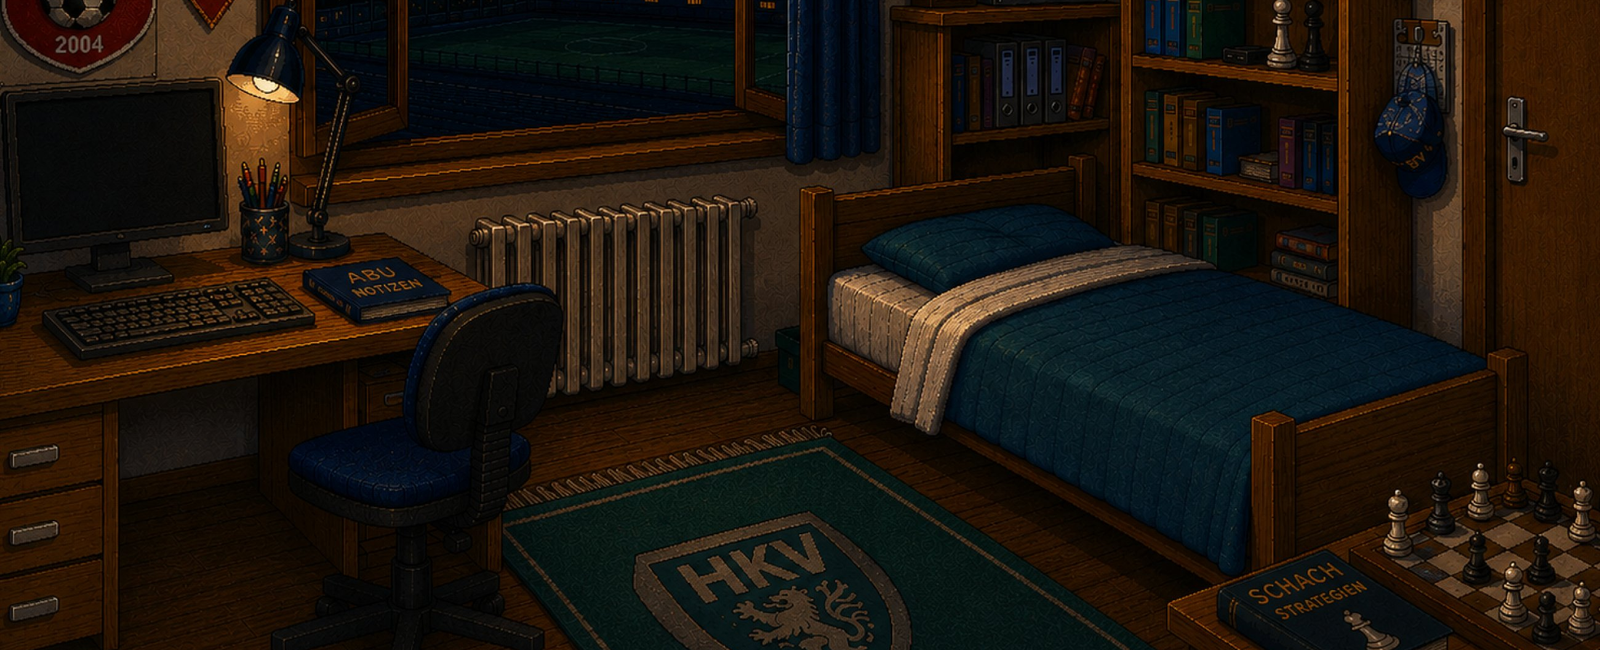
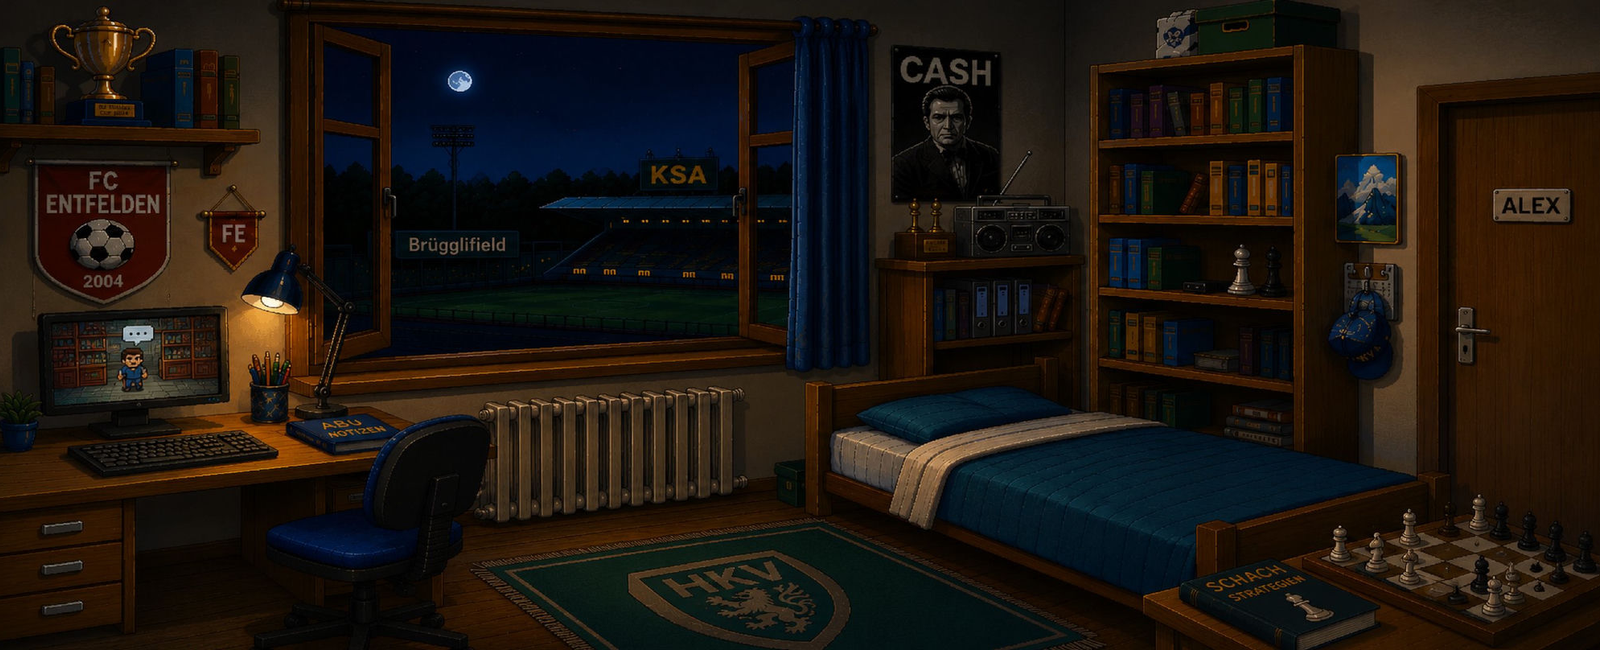
v27: Zimmer-Paar im Breitformat, Match-Abend + Nachtruhe

diff --git a/kaufvertrag_demo.html b/kaufvertrag_demo.html
@@ -475,35 +475,43 @@ laden:[
     a:{ anschauen:'Die Uhr tickt. Fristen laufen – das merken Sie sich für später.' } },
 ],
 zimmer:[
-  { id:'computer', name:'Computer', x:2,y:114,w:92,h:104,
-    a:{ anschauen:'Auf dem Bildschirm: <b>kvdigital.swiss</b>, Kapitel «Lernziele». Alex lernt sogar abends um zehn. Respekt – oder Prüfungspanik.',
-        benutze:'Nicht jetzt. Erst der Fall, dann die Lernziele. (Die Reihenfolge ist didaktisch umstritten.)' } },
-  { id:'fenster', name:'Fenster', x:130,y:6,w:172,h:158,
-    a:{ anschauen:'Draussen leuchtet das <b>Brügglifeld</b>, dahinter die KSA. Alex wohnt mit Aussicht auf Fussball und Bildung – die Prioritäten bleiben Verhandlungssache.',
-        oeffne:'Zu kalt. Und Ihr Problem fliegt nicht davon.' } },
-  { id:'cash', name:'Poster', x:350,y:0,w:57,h:70,
+  { id:'computer', name:'Computer', x:0,y:128,w:96,h:80,
+    a:{ anschauen:'Auf dem Bildschirm: <b>kvdigital.swiss</b> – der interaktive Sitzplan der Bundesversammlung. Alex lernt sogar abends um acht. Respekt – oder Prüfungspanik.',
+        benutze:'Nicht jetzt. Erst der Fall, dann das Parlament. (Die Reihenfolge ist didaktisch umstritten.)' } },
+  { id:'fenster', name:'Fenster', x:138,y:2,w:178,h:140,
+    a:{ anschauen:'Draussen leuchtet das <b>Brügglifeld</b> – Flutlicht, volle Ränge, das Spiel läuft! Und Alex sitzt am Pult. Die Prioritäten bleiben Verhandlungssache.',
+        oeffne:'Verlockend. Aber Ihr Problem fliegt nicht davon – im Gegensatz zum Ball.' } },
+  { id:'flutlicht', name:'Flutlicht', x:170,y:20,w:34,h:44,
+    a:{ anschauen:'Flutlicht überm Brügglifeld. Irgendwo dort unten verliert gerade jemand einen Zweikampf – und niemand rügt den Mangel.' } },
+  { id:'cash', name:'Poster', x:362,y:10,w:44,h:72,
     fund:{ verb:'anschauen', rq:1, text:'Ein Poster von <b>Johnny Cash</b>. Der Mann wusste alles über Schulden, Reue und zweite Chancen – der inoffizielle Schutzpatron des Obligationenrechts.' },
     a:{ anschauen:'Ein Poster in Schwarz-Weiss. Der Blick: streng, aber gerecht.' } },
-  { id:'radio', name:'Radiorekorder', x:388,y:64,w:56,h:36,
+  { id:'radio', name:'Radiorekorder', x:388,y:78,w:46,h:26,
     a:{ anschauen:'Ein Radiorekorder, Baujahr Occasion. Etwa von Meier &amp; Co.? Die Kassettenklappe klemmt jedenfalls stilecht.',
         benutze:'Play. In Ihrer Fantasie erklingt ein Vier-Stimmen-Tracker-Modul. Grossartig.' } },
-  { id:'gestell', name:'Büchergestell', x:448,y:0,w:94,h:210,
-    a:{ anschauen:'Ordner, Bücher, zwei Schachfiguren als Wache – und «Schach-Strategien» griffbereit. Wer vorausdenkt, gewinnt. Auch im Vertragsrecht.',
+  { id:'buecher', name:'Büchergestell', x:440,y:16,w:96,h:220,
+    a:{ anschauen:'Ordner, Bücher, zwei Schachfiguren als Wache. Wer Ordnung hält, findet sogar das OR auf Anhieb.',
         nimm:'Die Bücher gehören Ihnen schon. Eigentum verpflichtet – zum Lesen.' } },
-  { id:'tuer', name:'Zimmertür', x:584,y:0,w:56,h:260,
+  { id:'tuer', name:'Zimmertür', x:582,y:20,w:58,h:240,
     a:{ anschauen:'«ALEX» steht am Türschild. Ihr Reich – hier werden Rechtsfälle gelöst und Matratzen getestet.',
         oeffne:'Sie bleiben. Der Fall liegt hier drin, nicht draussen.' } },
-  { id:'bett', name:'Bett', x:320,y:156,w:270,h:104,
-    a:{ anschauen:'Auf dem Bett liegt das Leibchen des <b>BTV Aarau</b>, frisch gefaltet. Training ist morgen – zuerst das Recht.',
+  { id:'bett', name:'Bett', x:320,y:144,w:192,h:116,
+    a:{ anschauen:'Frisch gemacht und einladend. Training ist morgen – zuerst das Recht.',
         benutze:'Jetzt schlafen? Der Fall ruft!' } },
-  { id:'abubuch', name:'ABU-Notizen', x:112,y:194,w:57,h:35,
+  { id:'abubuch', name:'ABU-Notizen', x:124,y:156,w:44,h:24,
     a:{ anschauen:'«ABU-Notizen», prall gefüllt. Irgendwo darin: das Kapitel Kaufvertrag, markiert in drei Leuchtfarben.',
         benutze:'Sie blättern kurz. «Einigung über Sache und Preis …» – sitzt.' } },
-  { id:'wimpel', name:'Vereinswappen', x:0,y:36,w:100,h:84,
+  { id:'wimpel', name:'Vereinswappen', x:6,y:60,w:108,h:58,
     a:{ anschauen:'Das Wappen des <b>FC Entfelden</b>, dazu ein Wimpel. Loyalität kennt keine Ligagrenzen.' } },
-  { id:'heizung', name:'Radiator', x:188,y:178,w:116,h:68,
+  { id:'heizung', name:'Radiator', x:210,y:160,w:86,h:62,
     a:{ anschauen:'Ein Radiator mit Charakter. Er knackt nachts – aber anders als beim E-Bike ist das hier kein Mangel, sondern Ambiance.',
         benutze:'Sie wärmen kurz die Hände. Gemütlich. Löst aber keinen Verzug.' } },
+  { id:'teppich', name:'Teppich', x:200,y:214,w:240,h:46,
+    a:{ anschauen:'Der <b>HKV</b>-Teppich mit Löwenwappen. Offiziell nicht im Schulshop erhältlich – ein Sammlerstück.',
+        nimm:'Der bleibt liegen. Besitz ist nicht Eigentum – aber hier stimmt zufällig beides.' } },
+  { id:'gestell', name:'Schachbrett', x:548,y:206,w:92,h:54,
+    a:{ anschauen:'Ein angefangenes Schachproblem, daneben «Schach-Strategien». <b>Matt in zwei</b> – wer vorausdenkt, gewinnt. Auch im Vertragsrecht.',
+        nimm:'Das Problem wird gelöst, nicht weggeräumt.' } },
 ],
 weiche:[
   { id:'tuerL', name:'Zimmer 1', x:122,y:18,w:80,h:184,
@@ -841,7 +849,7 @@ ende: pxSzene('#000010', (R,D)=>{
    Liegen im Repo PNGs mit diesen Namen, werden sie automatisch
    statt der Pixel-Programme geladen. Fehlen sie: Pixel-Fallback.
    ===================================================== */
-const BILD_VERSION = '26';
+const BILD_VERSION = '27';
 function vurl(u){ return u + '?v=' + BILD_VERSION; }
 const SZENEN_BILDER = {
   front:'kaufvertrag_front.png',  laden:'kaufvertrag_laden.png',
@@ -850,34 +858,46 @@ const SZENEN_BILDER = {
   weiche:'kaufvertrag_weiche.png',
   ende:'kaufvertrag_ende.png',
 };
-/* Spaetabend-Variante: eigenes Band (tiefer), eigene Hotspots */
+/* Spaetabend-Variante: Breitbild mit Mond UND Schachbrett, eigene Hotspots */
 SZENEN.zimmer2 = SZENEN.zimmer;
 HOTSPOTS.zimmer2 = [
-  { id:'computer', name:'Computer', x:2,y:14,w:92,h:104,
-    a:{ anschauen:'Der Bildschirm ist dunkel. Sogar kvdigital.swiss schläft irgendwann – die Hausaufgaben sind erledigt.',
-        benutze:'Nicht mehr heute. Morgen ist auch noch ein Rechtstag.' } },
-  { id:'fenster', name:'Fenster', x:130,y:0,w:172,h:64,
-    a:{ anschauen:'Draussen ist das Flutlicht aus – <b>Spielende im Brügglifeld</b>. Nur die Nacht und Ihr Fall sind noch wach.',
+  { id:'computer', name:'Computer', x:0,y:128,w:96,h:80,
+    fund:{ verb:'anschauen', rq:1, text:'Auf dem Bildschirm läuft ein Pixel-Adventure: Eine kleine Figur steht in einem Occasionsladen und verhandelt … Moment. Das kommt Ihnen <b>sehr</b> bekannt vor.' },
+    a:{ anschauen:'Der Bildschirm flimmert. Hausaufgaben fertig – jetzt wird gespielt.',
+        benutze:'Alex spielt schon. Und Sie spielen Alex. Weiter im Text, bevor das philosophisch wird.' } },
+  { id:'fenster', name:'Fenster', x:138,y:2,w:178,h:140,
+    a:{ anschauen:'Das Flutlicht ist aus, der Mond übernimmt – <b>Spielende im Brügglifeld</b>. Nur die Nacht und Ihr Fall sind noch wach.',
         oeffne:'Zu spät, zu kalt. Und Ihr Problem bleibt sowieso hier drin.' } },
-  { id:'buecher', name:'Büchergestell', x:448,y:0,w:94,h:110,
-    a:{ anschauen:'Bücher und Ordner im Halbdunkel. Die Schulwoche ist abgehakt – fast.',
+  { id:'mond', name:'Mond', x:184,y:16,w:28,h:26,
+    a:{ anschauen:'Vollmond über dem Brügglifeld. Der einzige Schiedsrichter, der nie abpfeift.',
+        benutze:'Den Mond kann man nicht benutzen. Nicht einmal mit RQ 100.' } },
+  { id:'cash', name:'Poster', x:362,y:10,w:44,h:72,
+    fund:{ verb:'anschauen', rq:1, text:'Ein Poster von <b>Johnny Cash</b>. Der Mann wusste alles über Schulden, Reue und zweite Chancen – der inoffizielle Schutzpatron des Obligationenrechts.' },
+    a:{ anschauen:'Ein Poster in Schwarz-Weiss. Der Blick: streng, aber gerecht. Nachts noch strenger.' } },
+  { id:'radio', name:'Radiorekorder', x:388,y:78,w:46,h:26,
+    a:{ anschauen:'Ein Radiorekorder, Baujahr Occasion. Etwa von Meier &amp; Co.? Die Kassettenklappe klemmt jedenfalls stilecht.',
+        benutze:'Nicht mehr heute – das Haus schläft. Kopfkino tut es auch.' } },
+  { id:'buecher', name:'Büchergestell', x:440,y:16,w:96,h:220,
+    a:{ anschauen:'Ordner, Bücher, zwei Schachfiguren als Wache. Die Schulwoche ist abgehakt – fast.',
         nimm:'Die Bücher gehören Ihnen schon. Eigentum verpflichtet – zum Lesen.' } },
-  { id:'tuer', name:'Zimmertür', x:584,y:0,w:56,h:160,
-    a:{ anschauen:'Ihre Zimmertür. Dahinter schläft das Haus – hier drin wacht das Obligationenrecht.',
+  { id:'tuer', name:'Zimmertür', x:582,y:20,w:58,h:240,
+    a:{ anschauen:'«ALEX» steht am Türschild. Ihr Reich – hier werden Rechtsfälle gelöst und Matratzen getestet.',
         oeffne:'Sie bleiben. Der Fall liegt hier drin, nicht draussen.' } },
-  { id:'bett', name:'Bett', x:320,y:56,w:270,h:104,
+  { id:'bett', name:'Bett', x:320,y:144,w:192,h:116,
     a:{ anschauen:'Das Bett ist gemacht und ruft leise. Zuerst braucht der Fall eine Entscheidung.',
         benutze:'Gleich. Wer jetzt schläft, wacht mit demselben Problem wieder auf.' } },
-  { id:'abubuch', name:'ABU-Notizen', x:112,y:94,w:57,h:35,
+  { id:'abubuch', name:'ABU-Notizen', x:124,y:156,w:44,h:24,
     a:{ anschauen:'«ABU-Notizen», prall gefüllt. Irgendwo darin: das Kapitel Kaufvertrag, markiert in drei Leuchtfarben.',
         benutze:'Sie blättern kurz. «Einigung über Sache und Preis …» – sitzt.' } },
-  { id:'heizung', name:'Radiator', x:188,y:78,w:116,h:68,
+  { id:'wimpel', name:'Vereinswappen', x:6,y:60,w:108,h:58,
+    a:{ anschauen:'Das Wappen des <b>FC Entfelden</b>, dazu ein Wimpel. Loyalität kennt keine Ligagrenzen.' } },
+  { id:'heizung', name:'Radiator', x:210,y:160,w:86,h:62,
     a:{ anschauen:'Ein Radiator mit Charakter. Er knackt nachts – aber anders als beim E-Bike ist das hier kein Mangel, sondern Ambiance.',
         benutze:'Sie wärmen kurz die Hände. Gemütlich. Löst aber keinen Verzug.' } },
-  { id:'teppich', name:'Teppich', x:167,y:182,w:298,h:78,
+  { id:'teppich', name:'Teppich', x:200,y:214,w:240,h:46,
     a:{ anschauen:'Der <b>HKV</b>-Teppich mit Löwenwappen. Offiziell nicht im Schulshop erhältlich – ein Sammlerstück.',
         nimm:'Der bleibt liegen. Besitz ist nicht Eigentum – aber hier stimmt zufällig beides.' } },
-  { id:'gestell', name:'Schachbrett', x:540,y:180,w:100,h:80,
+  { id:'gestell', name:'Schachbrett', x:548,y:206,w:92,h:54,
     a:{ anschauen:'Ein angefangenes Schachproblem, daneben «Schach-Strategien». <b>Matt in zwei</b> – wer vorausdenkt, gewinnt. Auch im Vertragsrecht.',
         nimm:'Das Problem wird gelöst, nicht weggeräumt.' } },
 ];

diff --git a/kaufvertrag_fd642d69.html b/kaufvertrag_fd642d69.html
@@ -476,35 +476,43 @@ laden:[
     a:{ anschauen:'Die Uhr tickt. Fristen laufen – das merken Sie sich für später.' } },
 ],
 zimmer:[
-  { id:'computer', name:'Computer', x:2,y:114,w:92,h:104,
-    a:{ anschauen:'Auf dem Bildschirm: <b>kvdigital.swiss</b>, Kapitel «Lernziele». Alex lernt sogar abends um zehn. Respekt – oder Prüfungspanik.',
-        benutze:'Nicht jetzt. Erst der Fall, dann die Lernziele. (Die Reihenfolge ist didaktisch umstritten.)' } },
-  { id:'fenster', name:'Fenster', x:130,y:6,w:172,h:158,
-    a:{ anschauen:'Draussen leuchtet das <b>Brügglifeld</b>, dahinter die KSA. Alex wohnt mit Aussicht auf Fussball und Bildung – die Prioritäten bleiben Verhandlungssache.',
-        oeffne:'Zu kalt. Und Ihr Problem fliegt nicht davon.' } },
-  { id:'cash', name:'Poster', x:350,y:0,w:57,h:70,
+  { id:'computer', name:'Computer', x:0,y:128,w:96,h:80,
+    a:{ anschauen:'Auf dem Bildschirm: <b>kvdigital.swiss</b> – der interaktive Sitzplan der Bundesversammlung. Alex lernt sogar abends um acht. Respekt – oder Prüfungspanik.',
+        benutze:'Nicht jetzt. Erst der Fall, dann das Parlament. (Die Reihenfolge ist didaktisch umstritten.)' } },
+  { id:'fenster', name:'Fenster', x:138,y:2,w:178,h:140,
+    a:{ anschauen:'Draussen leuchtet das <b>Brügglifeld</b> – Flutlicht, volle Ränge, das Spiel läuft! Und Alex sitzt am Pult. Die Prioritäten bleiben Verhandlungssache.',
+        oeffne:'Verlockend. Aber Ihr Problem fliegt nicht davon – im Gegensatz zum Ball.' } },
+  { id:'flutlicht', name:'Flutlicht', x:170,y:20,w:34,h:44,
+    a:{ anschauen:'Flutlicht überm Brügglifeld. Irgendwo dort unten verliert gerade jemand einen Zweikampf – und niemand rügt den Mangel.' } },
+  { id:'cash', name:'Poster', x:362,y:10,w:44,h:72,
     fund:{ verb:'anschauen', rq:1, text:'Ein Poster von <b>Johnny Cash</b>. Der Mann wusste alles über Schulden, Reue und zweite Chancen – der inoffizielle Schutzpatron des Obligationenrechts.' },
     a:{ anschauen:'Ein Poster in Schwarz-Weiss. Der Blick: streng, aber gerecht.' } },
-  { id:'radio', name:'Radiorekorder', x:388,y:64,w:56,h:36,
+  { id:'radio', name:'Radiorekorder', x:388,y:78,w:46,h:26,
     a:{ anschauen:'Ein Radiorekorder, Baujahr Occasion. Etwa von Meier &amp; Co.? Die Kassettenklappe klemmt jedenfalls stilecht.',
         benutze:'Play. In Ihrer Fantasie erklingt ein Vier-Stimmen-Tracker-Modul. Grossartig.' } },
-  { id:'gestell', name:'Büchergestell', x:448,y:0,w:94,h:210,
-    a:{ anschauen:'Ordner, Bücher, zwei Schachfiguren als Wache – und «Schach-Strategien» griffbereit. Wer vorausdenkt, gewinnt. Auch im Vertragsrecht.',
+  { id:'buecher', name:'Büchergestell', x:440,y:16,w:96,h:220,
+    a:{ anschauen:'Ordner, Bücher, zwei Schachfiguren als Wache. Wer Ordnung hält, findet sogar das OR auf Anhieb.',
         nimm:'Die Bücher gehören Ihnen schon. Eigentum verpflichtet – zum Lesen.' } },
-  { id:'tuer', name:'Zimmertür', x:584,y:0,w:56,h:260,
+  { id:'tuer', name:'Zimmertür', x:582,y:20,w:58,h:240,
     a:{ anschauen:'«ALEX» steht am Türschild. Ihr Reich – hier werden Rechtsfälle gelöst und Matratzen getestet.',
         oeffne:'Sie bleiben. Der Fall liegt hier drin, nicht draussen.' } },
-  { id:'bett', name:'Bett', x:320,y:156,w:270,h:104,
-    a:{ anschauen:'Auf dem Bett liegt das Leibchen des <b>BTV Aarau</b>, frisch gefaltet. Training ist morgen – zuerst das Recht.',
+  { id:'bett', name:'Bett', x:320,y:144,w:192,h:116,
+    a:{ anschauen:'Frisch gemacht und einladend. Training ist morgen – zuerst das Recht.',
         benutze:'Jetzt schlafen? Der Fall ruft!' } },
-  { id:'abubuch', name:'ABU-Notizen', x:112,y:194,w:57,h:35,
+  { id:'abubuch', name:'ABU-Notizen', x:124,y:156,w:44,h:24,
     a:{ anschauen:'«ABU-Notizen», prall gefüllt. Irgendwo darin: das Kapitel Kaufvertrag, markiert in drei Leuchtfarben.',
         benutze:'Sie blättern kurz. «Einigung über Sache und Preis …» – sitzt.' } },
-  { id:'wimpel', name:'Vereinswappen', x:0,y:36,w:100,h:84,
+  { id:'wimpel', name:'Vereinswappen', x:6,y:60,w:108,h:58,
     a:{ anschauen:'Das Wappen des <b>FC Entfelden</b>, dazu ein Wimpel. Loyalität kennt keine Ligagrenzen.' } },
-  { id:'heizung', name:'Radiator', x:188,y:178,w:116,h:68,
+  { id:'heizung', name:'Radiator', x:210,y:160,w:86,h:62,
     a:{ anschauen:'Ein Radiator mit Charakter. Er knackt nachts – aber anders als beim E-Bike ist das hier kein Mangel, sondern Ambiance.',
         benutze:'Sie wärmen kurz die Hände. Gemütlich. Löst aber keinen Verzug.' } },
+  { id:'teppich', name:'Teppich', x:200,y:214,w:240,h:46,
+    a:{ anschauen:'Der <b>HKV</b>-Teppich mit Löwenwappen. Offiziell nicht im Schulshop erhältlich – ein Sammlerstück.',
+        nimm:'Der bleibt liegen. Besitz ist nicht Eigentum – aber hier stimmt zufällig beides.' } },
+  { id:'gestell', name:'Schachbrett', x:548,y:206,w:92,h:54,
+    a:{ anschauen:'Ein angefangenes Schachproblem, daneben «Schach-Strategien». <b>Matt in zwei</b> – wer vorausdenkt, gewinnt. Auch im Vertragsrecht.',
+        nimm:'Das Problem wird gelöst, nicht weggeräumt.' } },
 ],
 weiche:[
   { id:'tuerL', name:'Zimmer 1', x:122,y:18,w:80,h:184,
@@ -842,7 +850,7 @@ ende: pxSzene('#000010', (R,D)=>{
    Liegen im Repo PNGs mit diesen Namen, werden sie automatisch
    statt der Pixel-Programme geladen. Fehlen sie: Pixel-Fallback.
    ===================================================== */
-const BILD_VERSION = '26';
+const BILD_VERSION = '27';
 function vurl(u){ return u + '?v=' + BILD_VERSION; }
 const SZENEN_BILDER = {
   front:'kaufvertrag_front.png',  laden:'kaufvertrag_laden.png',
@@ -851,34 +859,46 @@ const SZENEN_BILDER = {
   weiche:'kaufvertrag_weiche.png',
   ende:'kaufvertrag_ende.png',
 };
-/* Spaetabend-Variante: eigenes Band (tiefer), eigene Hotspots */
+/* Spaetabend-Variante: Breitbild mit Mond UND Schachbrett, eigene Hotspots */
 SZENEN.zimmer2 = SZENEN.zimmer;
 HOTSPOTS.zimmer2 = [
-  { id:'computer', name:'Computer', x:2,y:14,w:92,h:104,
-    a:{ anschauen:'Der Bildschirm ist dunkel. Sogar kvdigital.swiss schläft irgendwann – die Hausaufgaben sind erledigt.',
-        benutze:'Nicht mehr heute. Morgen ist auch noch ein Rechtstag.' } },
-  { id:'fenster', name:'Fenster', x:130,y:0,w:172,h:64,
-    a:{ anschauen:'Draussen ist das Flutlicht aus – <b>Spielende im Brügglifeld</b>. Nur die Nacht und Ihr Fall sind noch wach.',
+  { id:'computer', name:'Computer', x:0,y:128,w:96,h:80,
+    fund:{ verb:'anschauen', rq:1, text:'Auf dem Bildschirm läuft ein Pixel-Adventure: Eine kleine Figur steht in einem Occasionsladen und verhandelt … Moment. Das kommt Ihnen <b>sehr</b> bekannt vor.' },
+    a:{ anschauen:'Der Bildschirm flimmert. Hausaufgaben fertig – jetzt wird gespielt.',
+        benutze:'Alex spielt schon. Und Sie spielen Alex. Weiter im Text, bevor das philosophisch wird.' } },
+  { id:'fenster', name:'Fenster', x:138,y:2,w:178,h:140,
+    a:{ anschauen:'Das Flutlicht ist aus, der Mond übernimmt – <b>Spielende im Brügglifeld</b>. Nur die Nacht und Ihr Fall sind noch wach.',
         oeffne:'Zu spät, zu kalt. Und Ihr Problem bleibt sowieso hier drin.' } },
-  { id:'buecher', name:'Büchergestell', x:448,y:0,w:94,h:110,
-    a:{ anschauen:'Bücher und Ordner im Halbdunkel. Die Schulwoche ist abgehakt – fast.',
+  { id:'mond', name:'Mond', x:184,y:16,w:28,h:26,
+    a:{ anschauen:'Vollmond über dem Brügglifeld. Der einzige Schiedsrichter, der nie abpfeift.',
+        benutze:'Den Mond kann man nicht benutzen. Nicht einmal mit RQ 100.' } },
+  { id:'cash', name:'Poster', x:362,y:10,w:44,h:72,
+    fund:{ verb:'anschauen', rq:1, text:'Ein Poster von <b>Johnny Cash</b>. Der Mann wusste alles über Schulden, Reue und zweite Chancen – der inoffizielle Schutzpatron des Obligationenrechts.' },
+    a:{ anschauen:'Ein Poster in Schwarz-Weiss. Der Blick: streng, aber gerecht. Nachts noch strenger.' } },
+  { id:'radio', name:'Radiorekorder', x:388,y:78,w:46,h:26,
+    a:{ anschauen:'Ein Radiorekorder, Baujahr Occasion. Etwa von Meier &amp; Co.? Die Kassettenklappe klemmt jedenfalls stilecht.',
+        benutze:'Nicht mehr heute – das Haus schläft. Kopfkino tut es auch.' } },
+  { id:'buecher', name:'Büchergestell', x:440,y:16,w:96,h:220,
+    a:{ anschauen:'Ordner, Bücher, zwei Schachfiguren als Wache. Die Schulwoche ist abgehakt – fast.',
         nimm:'Die Bücher gehören Ihnen schon. Eigentum verpflichtet – zum Lesen.' } },
-  { id:'tuer', name:'Zimmertür', x:584,y:0,w:56,h:160,
-    a:{ anschauen:'Ihre Zimmertür. Dahinter schläft das Haus – hier drin wacht das Obligationenrecht.',
+  { id:'tuer', name:'Zimmertür', x:582,y:20,w:58,h:240,
+    a:{ anschauen:'«ALEX» steht am Türschild. Ihr Reich – hier werden Rechtsfälle gelöst und Matratzen getestet.',
         oeffne:'Sie bleiben. Der Fall liegt hier drin, nicht draussen.' } },
-  { id:'bett', name:'Bett', x:320,y:56,w:270,h:104,
+  { id:'bett', name:'Bett', x:320,y:144,w:192,h:116,
     a:{ anschauen:'Das Bett ist gemacht und ruft leise. Zuerst braucht der Fall eine Entscheidung.',
         benutze:'Gleich. Wer jetzt schläft, wacht mit demselben Problem wieder auf.' } },
-  { id:'abubuch', name:'ABU-Notizen', x:112,y:94,w:57,h:35,
+  { id:'abubuch', name:'ABU-Notizen', x:124,y:156,w:44,h:24,
     a:{ anschauen:'«ABU-Notizen», prall gefüllt. Irgendwo darin: das Kapitel Kaufvertrag, markiert in drei Leuchtfarben.',
         benutze:'Sie blättern kurz. «Einigung über Sache und Preis …» – sitzt.' } },
-  { id:'heizung', name:'Radiator', x:188,y:78,w:116,h:68,
+  { id:'wimpel', name:'Vereinswappen', x:6,y:60,w:108,h:58,
+    a:{ anschauen:'Das Wappen des <b>FC Entfelden</b>, dazu ein Wimpel. Loyalität kennt keine Ligagrenzen.' } },
+  { id:'heizung', name:'Radiator', x:210,y:160,w:86,h:62,
     a:{ anschauen:'Ein Radiator mit Charakter. Er knackt nachts – aber anders als beim E-Bike ist das hier kein Mangel, sondern Ambiance.',
         benutze:'Sie wärmen kurz die Hände. Gemütlich. Löst aber keinen Verzug.' } },
-  { id:'teppich', name:'Teppich', x:167,y:182,w:298,h:78,
+  { id:'teppich', name:'Teppich', x:200,y:214,w:240,h:46,
     a:{ anschauen:'Der <b>HKV</b>-Teppich mit Löwenwappen. Offiziell nicht im Schulshop erhältlich – ein Sammlerstück.',
         nimm:'Der bleibt liegen. Besitz ist nicht Eigentum – aber hier stimmt zufällig beides.' } },
-  { id:'gestell', name:'Schachbrett', x:540,y:180,w:100,h:80,
+  { id:'gestell', name:'Schachbrett', x:548,y:206,w:92,h:54,
     a:{ anschauen:'Ein angefangenes Schachproblem, daneben «Schach-Strategien». <b>Matt in zwei</b> – wer vorausdenkt, gewinnt. Auch im Vertragsrecht.',
         nimm:'Das Problem wird gelöst, nicht weggeräumt.' } },
 ];
